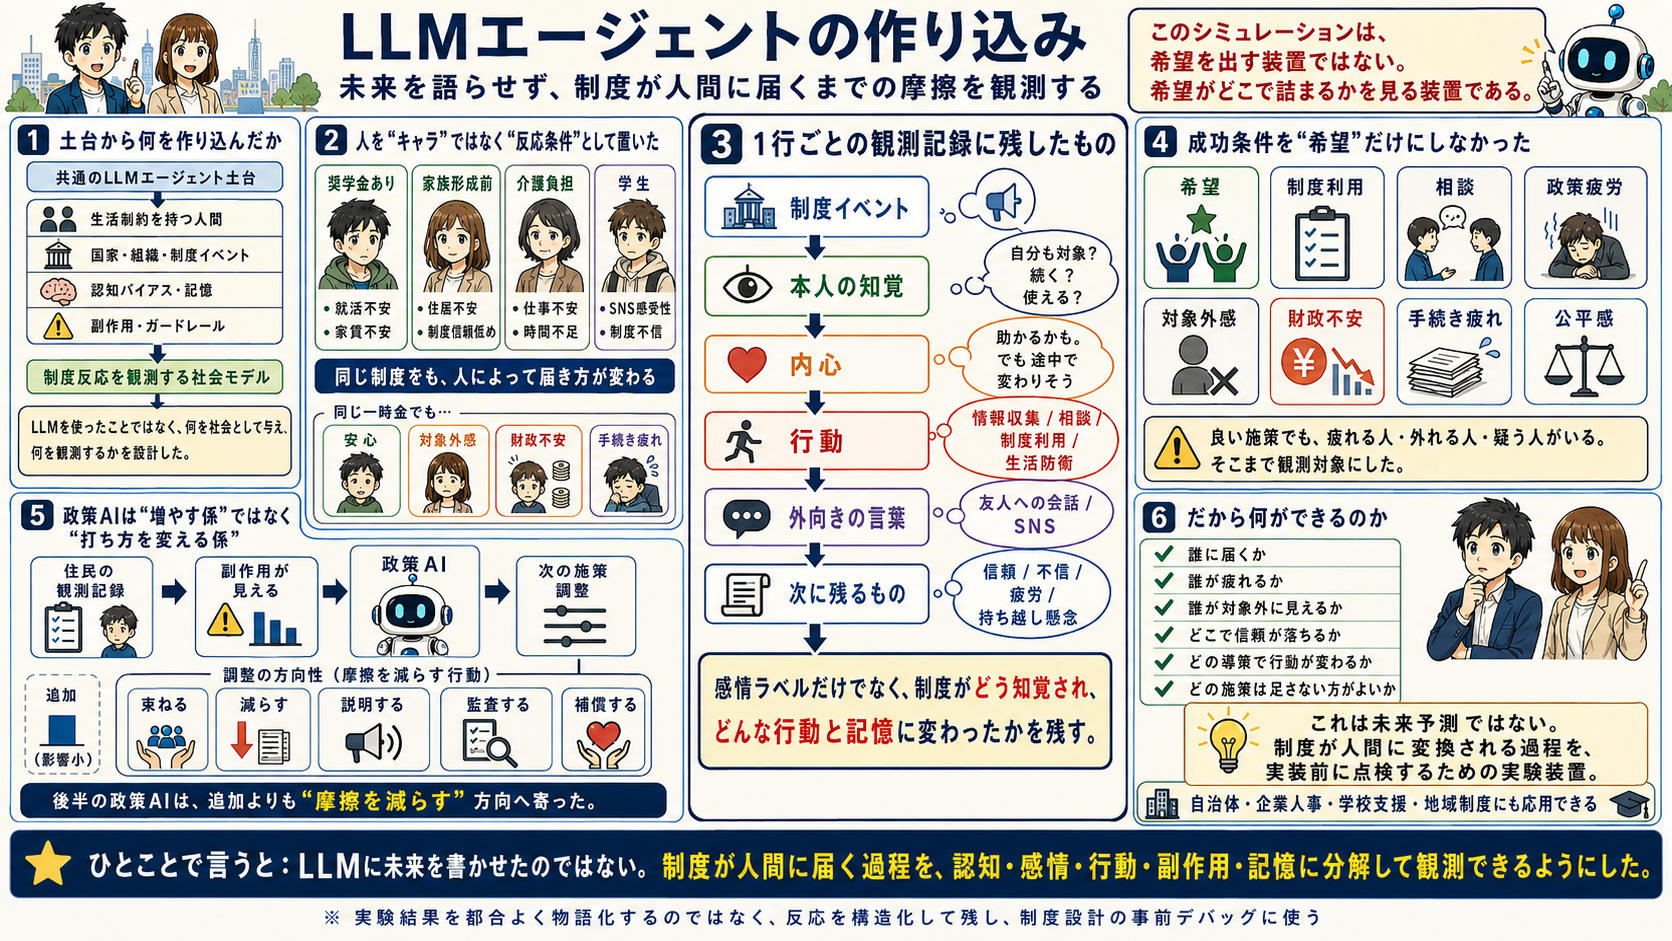
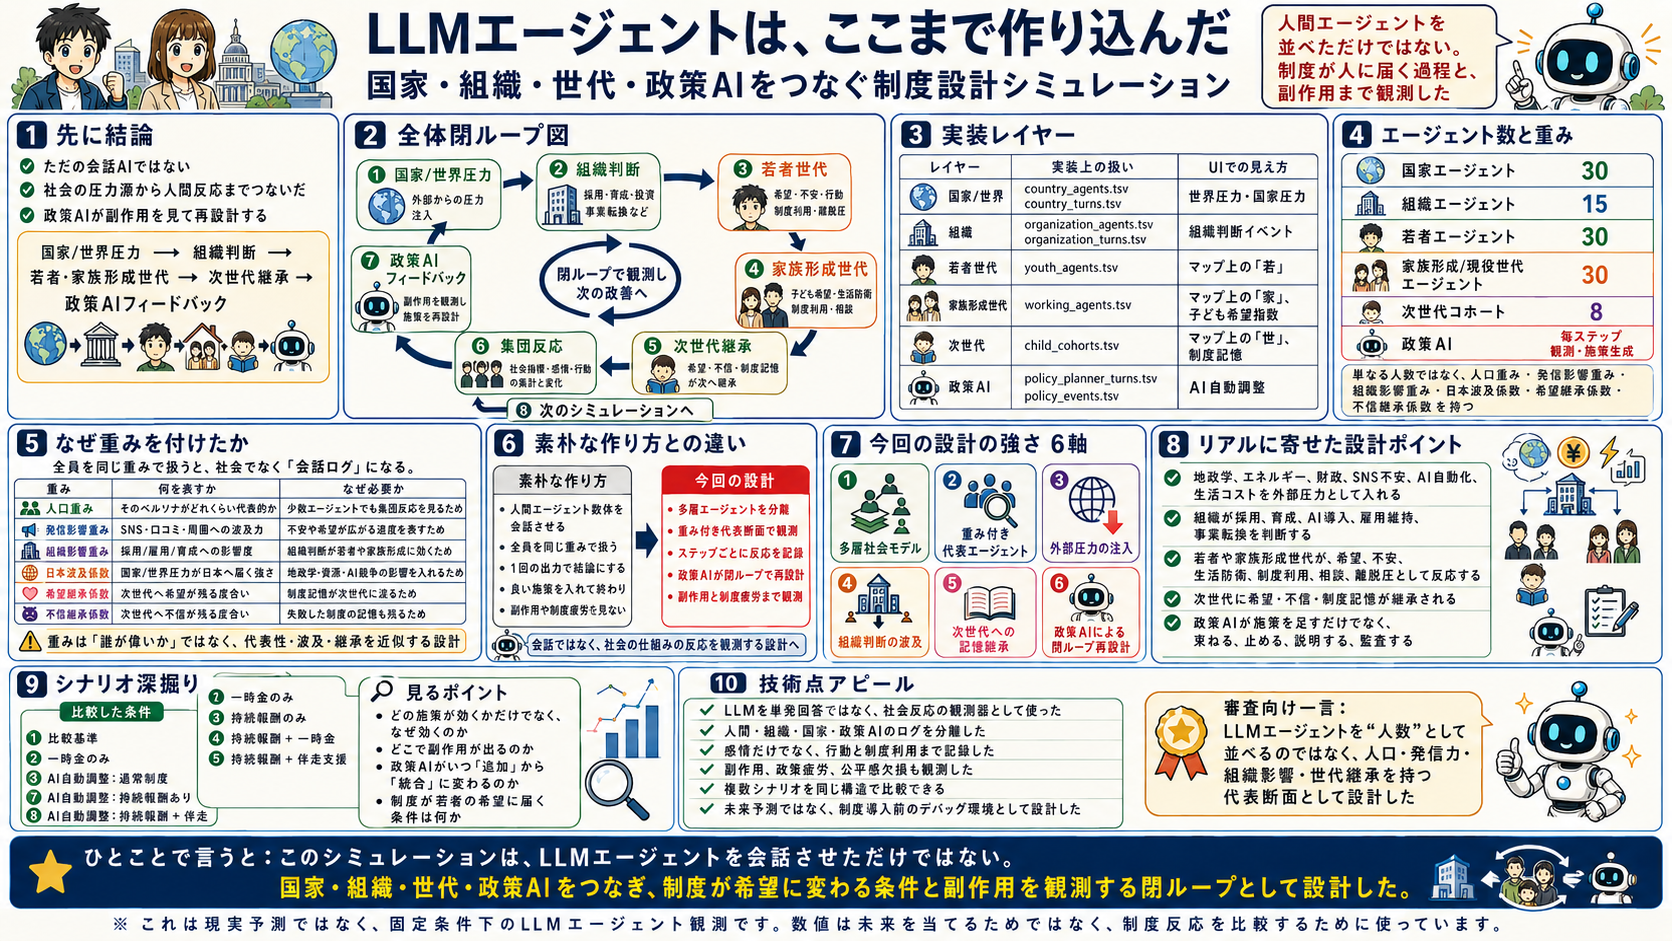
Replace LLM agent summary image

diff --git a/README.md b/README.md
@@ -54,7 +54,7 @@ AGI・AIロボ普及後の社会移行を題材に、制度や施策が人間の
 <p>
   <img src="docs/assets/まとめ1.png" alt="まとめ1" width="32%">
   <img src="docs/assets/まとめ2.png" alt="まとめ2" width="32%">
-  <img src="docs/assets/まとめ3.png" alt="まとめ3" width="32%">
+  <img src="docs/assets/まとめ3.png" alt="LLMエージェントの作り込み" width="32%">
 </p>
 
 ## まず動かす
